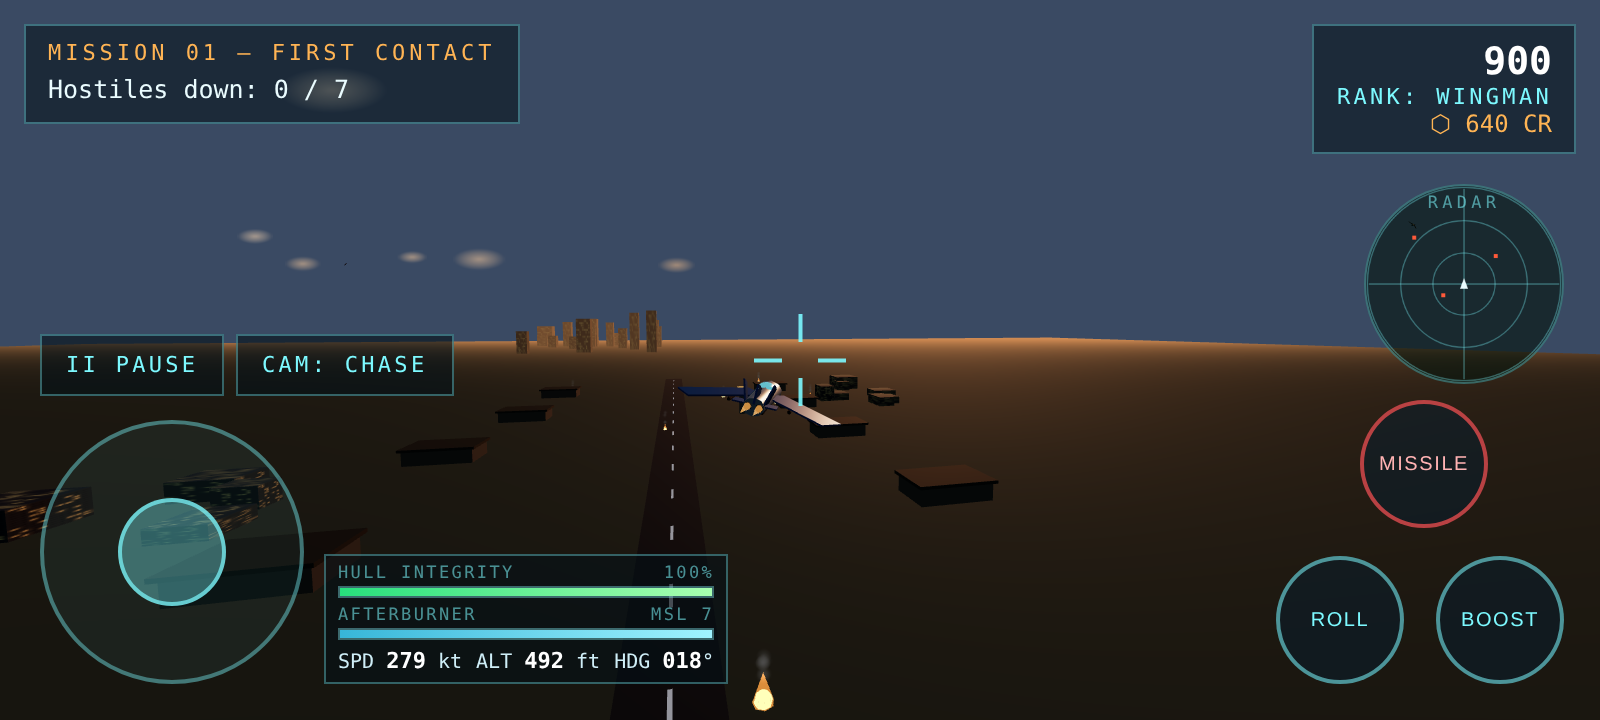
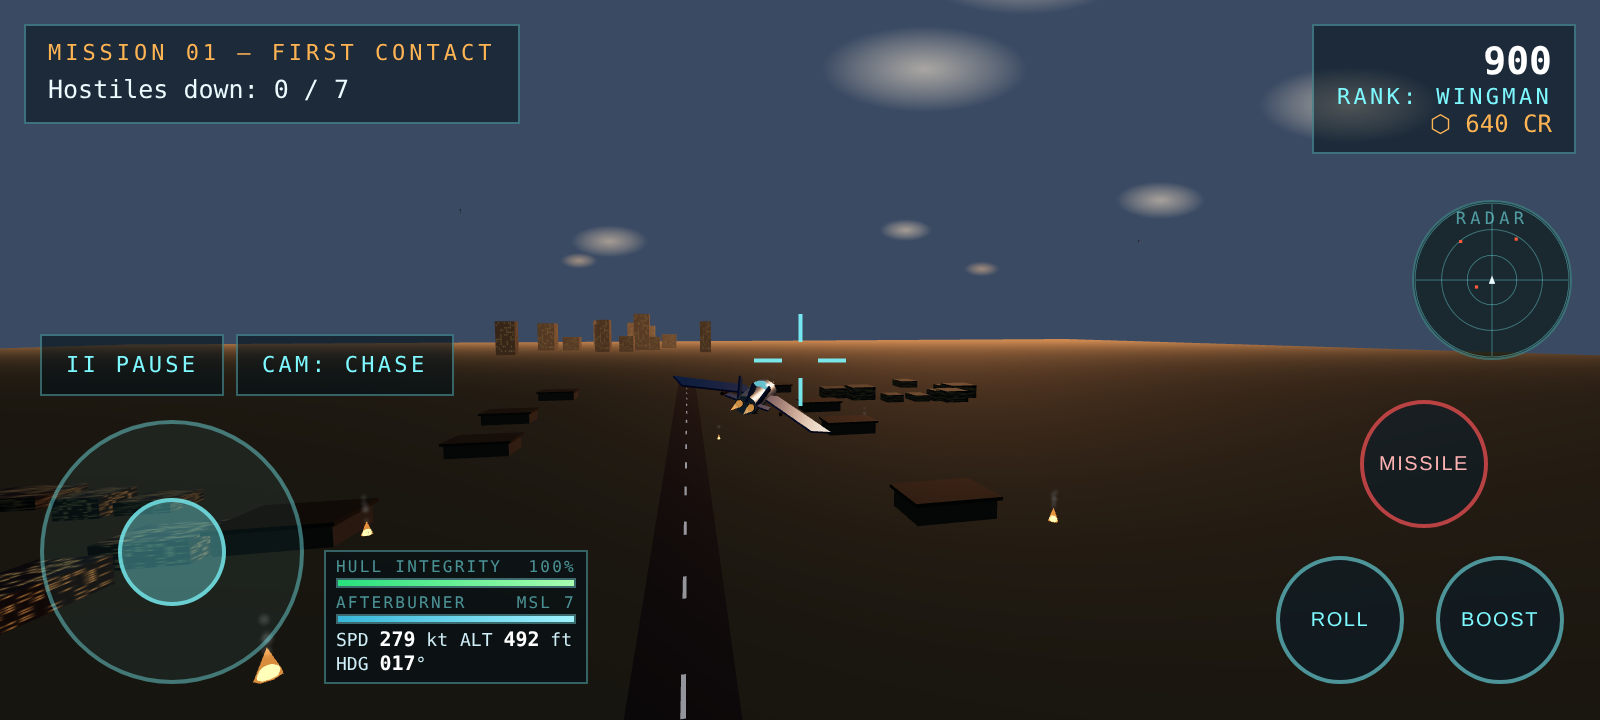
Armory and Service Record are now full screens with Back buttons (no overlay panel); tougher enemies (fighters 110 HP, aces 220, base 220, ship 480, boss 1400); touch radar anchored under the score box so it can never overlap; smaller touch gauge panel

diff --git a/index.html b/index.html
@@ -117,18 +117,10 @@
   .btn.engage{margin-top:10px;padding:12px 50px;font-size:clamp(15px,2.6vw,18px)}
   .mode-row{display:flex;gap:8px;justify-content:center;margin-top:10px;flex-wrap:wrap}
   .mode-row .mission-btn{width:auto;margin-top:0;padding:8px 14px;font-size:12px}
-  .hangar-drawer{position:fixed;top:76px;right:20px;width:min(430px,92vw);max-height:calc(100dvh - 200px);overflow-y:auto;z-index:60;text-align:left}
-  .hangar-drawer .panel{max-width:none;background:rgba(4,12,20,.97)}
-  .drawer-close{float:right;cursor:pointer;background:transparent;border:1px solid var(--line);color:var(--hud);width:28px;height:28px;font-size:14px;line-height:1}
-  .drawer-tabs{display:flex;gap:8px;margin-bottom:12px;padding-right:36px}
-  .drawer-tab{flex:1;cursor:pointer;padding:9px 6px;font-family:inherit;font-size:11.5px;letter-spacing:.12em;
-    text-transform:uppercase;color:var(--hud);background:rgba(6,18,28,.6);border:1px solid var(--line)}
-  .drawer-tab.sel{border-color:var(--amber);color:#fff;background:rgba(255,180,84,.13)}
   @media(max-width:820px){
     .hangar-mid{flex-direction:column;align-items:stretch;min-height:0}
     .hangar-left,.hangar-right{width:100%}
     .jet-circle{margin:0 auto}
-    .hangar-drawer{top:auto;bottom:12px;right:12px;left:12px;width:auto;max-height:62%}
   }
 
   /* ---------- HUD ---------- */
@@ -195,17 +187,22 @@
   #stick-base{touch-action:none}
   .tbtn{touch-action:none}
   body.touch #stick-base{left:20px;bottom:18px;width:132px;height:132px}
-  body.touch #hud-bottom-left{left:162px;bottom:18px;min-width:138px;padding:4px 6px}
-  body.touch #hud-bottom-left .bar{height:6px;margin:1px 0 4px}
-  body.touch #hud-bottom-left .barlabel{font-size:8.5px;letter-spacing:.14em}
-  body.touch #hud-gauges{gap:7px;font-size:10px;flex-wrap:wrap;row-gap:1px}
-  body.touch #hud-gauges b{font-size:11px}
+  body.touch #hud-bottom-left{left:162px;bottom:18px;min-width:118px;max-width:132px;padding:3px 5px}
+  body.touch #hud-bottom-left .bar{height:5px;margin:1px 0 3px}
+  body.touch #hud-bottom-left .barlabel{font-size:8px;letter-spacing:.14em}
+  body.touch #hud-gauges{gap:6px;font-size:9px;flex-wrap:wrap;row-gap:1px}
+  body.touch #hud-gauges b{font-size:10px}
   body.touch #btn-pause{top:auto;bottom:162px;left:20px}
   body.touch #btn-camera{top:auto;bottom:162px;left:118px;right:auto}
   body.touch #btn-end-sortie{position:absolute;top:auto !important;bottom:200px;left:20px}
-  body.touch #radar-wrap{bottom:168px;right:18px;width:100px;height:100px}
-  body.touch #radar{width:100px;height:100px}
+  body.touch #radar-wrap{top:104px;bottom:auto;right:14px;width:92px;height:92px}
+  body.touch #radar{width:92px;height:92px}
   body.touch #radar-label{top:5px;right:0;left:0;text-align:center;font-size:8.5px}
+  @media(max-height:420px){
+    body.touch #radar-wrap{top:100px;width:80px;height:80px}
+    body.touch #radar{width:80px;height:80px}
+    body.touch #btn-missile{bottom:84px}
+  }
   body.touch #btn-missile{right:56px;bottom:96px}
   body.touch #btn-roll{right:98px;bottom:18px}
   body.touch #btn-boost{right:18px;bottom:18px}
@@ -327,26 +324,6 @@
         <button class="mission-btn" id="btn-mode-endless"><span>ENDLESS<small>WAVE DEFENSE · BEST: <span id="lobby-best-endless">WAVE 0</span></small></span><b>▶</b></button>
       </div>
     </div>
-    <div class="hangar-drawer hidden" id="drawer-panel">
-      <div class="panel">
-        <button class="drawer-close" id="btn-drawer-close">✕</button>
-        <div class="drawer-tabs">
-          <button id="tab-armory" class="drawer-tab">⚙ Armory</button>
-          <button id="tab-record" class="drawer-tab">🎖 Records</button>
-        </div>
-        <div id="drawer-sec-armory">
-          <p class="obj" style="margin:8px 0 2px">Spend mission credits here. Upgrades apply to every mission you fly afterwards.</p>
-          <div class="upgrid" id="lobby-upgrades" style="grid-template-columns:1fr"></div>
-        </div>
-        <div id="drawer-sec-record" class="hidden">
-          <div class="kicker">Service Record</div>
-          <h2>MEDALS & STATISTICS</h2>
-          <div class="pilot-stats" id="lobby-stats" style="grid-template-columns:repeat(4,1fr);gap:10px 22px"></div>
-          <div class="kicker" style="margin-top:18px">Medals <span id="lobby-medal-count"></span></div>
-          <div id="lobby-medals"></div>
-        </div>
-      </div>
-    </div>
   </div>
 </div>
 
@@ -358,6 +335,33 @@
     <p class="obj" style="margin:8px 0 4px">Choose your sortie. Locked missions open as you clear the campaign.</p>
     <div id="lobby-missions"></div>
     <div class="center"><button class="btn ghost" id="btn-missions-back">← Back to Hangar</button></div>
+  </div>
+</div>
+
+<!-- ================= ARMORY ================= -->
+<div id="screen-armory" class="screen hidden">
+  <div class="panel">
+    <div class="kicker">Hangar — Upgrades</div>
+    <h2>ARMORY & WORKSHOP</h2>
+    <p class="obj" style="margin:8px 0 2px">Spend mission credits here. Upgrades apply to every mission you fly afterwards.</p>
+    <div class="pilot-stats" style="margin-top:12px">
+      <span>Credits</span><b id="armory-credits">0 CR</b>
+      <span>Aircraft</span><b id="armory-aircraft">—</b>
+    </div>
+    <div class="upgrid" id="lobby-upgrades"></div>
+    <div class="center"><button class="btn ghost" id="btn-armory-back">← Back to Hangar</button></div>
+  </div>
+</div>
+
+<!-- ================= SERVICE RECORD ================= -->
+<div id="screen-record" class="screen hidden">
+  <div class="panel">
+    <div class="kicker">Service Record</div>
+    <h2>MEDALS & STATISTICS</h2>
+    <div class="pilot-stats" id="lobby-stats" style="grid-template-columns:repeat(4,1fr);gap:10px 22px"></div>
+    <div class="kicker" style="margin-top:18px">Medals <span id="lobby-medal-count"></span></div>
+    <div id="lobby-medals"></div>
+    <div class="center"><button class="btn ghost" id="btn-record-back">← Back to Hangar</button></div>
   </div>
 </div>
 
@@ -1065,7 +1069,7 @@ function spawnEnemy(x, y, z, ace = false) {
   scene.add(group);
   const e = {
     group, ace, alive: true, radius: 10,
-    hp: ace ? 90 : 45, maxHp: ace ? 90 : 45,
+    hp: ace ? 220 : 110, maxHp: ace ? 220 : 110,
     speed: rand(118, 132) * (ace ? 1.14 : 1),
     fireCd: rand(0.8, 2.2), burst: 0, jinkT: 0, jink: new THREE.Vector3(),
     patrol: new THREE.Vector3(rand(-2400, 2400), rand(280, 520), rand(-2400, 2400)),
@@ -1170,7 +1174,7 @@ function buildRadarBase(x, z) {
   light.position.y = 27.5; g.add(light);
   g.position.set(x, 0, z);
   scene.add(g);
-  const t = { group: g, kind: 'base', hp: 130, maxHp: 130, radius: 30, alive: true, dish, scoreValue: 300, credits: 60 };
+  const t = { group: g, kind: 'base', hp: 220, maxHp: 220, radius: 30, alive: true, dish, scoreValue: 300, credits: 60 };
   targets.push(t);
   return t;
 }
@@ -1192,7 +1196,7 @@ function buildShip(x, z, ry, hostile) {
   }
   g.position.set(x, 0, z); g.rotation.y = ry;
   scene.add(g);
-  const t = { group: g, kind: 'ship', hp: 300, maxHp: 300, radius: 62, alive: true, hostile, turrets, fireCd: rand(1, 2), sinkT: 0, scoreValue: 500, credits: 120 };
+  const t = { group: g, kind: 'ship', hp: 480, maxHp: 480, radius: 62, alive: true, hostile, turrets, fireCd: rand(1, 2), sinkT: 0, scoreValue: 500, credits: 120 };
   targets.push(t);
   return t;
 }
@@ -1221,7 +1225,7 @@ function buildBoss() {
   }
   g.position.set(0, 430, -1500);
   scene.add(g);
-  const t = { group: g, kind: 'boss', hp: 850, maxHp: 850, radius: 105, alive: true, turrets, engines, fireCd: 1.5, angle: 0, scoreValue: 2000, credits: 400 };
+  const t = { group: g, kind: 'boss', hp: 1400, maxHp: 1400, radius: 105, alive: true, turrets, engines, fireCd: 1.5, angle: 0, scoreValue: 2000, credits: 400 };
   targets.push(t);
   return t;
 }
@@ -1824,24 +1828,26 @@ function startHangar() {
   };
   requestAnimationFrame(step);
 }
-function openDrawer(which) {
-  el('drawer-panel').classList.remove('hidden');
-  el('drawer-sec-armory').classList.toggle('hidden', which !== 'armory');
-  el('drawer-sec-record').classList.toggle('hidden', which !== 'record');
-  el('tab-armory').classList.toggle('sel', which === 'armory');
-  el('tab-record').classList.toggle('sel', which === 'record');
+function showArmory() {
+  el('armory-credits').textContent = SAVE.credits + ' CR';
+  el('armory-aircraft').textContent = JETS[SAVE.jet].name;
+  state = 'armory';
+  showScreen('screen-armory');
 }
-el('btn-drawer-armory').addEventListener('click', () => openDrawer('armory'));
-el('btn-drawer-record').addEventListener('click', () => openDrawer('record'));
-el('tab-armory').addEventListener('click', () => openDrawer('armory'));
-el('tab-record').addEventListener('click', () => openDrawer('record'));
-el('btn-drawer-close').addEventListener('click', () => el('drawer-panel').classList.add('hidden'));
+function showRecord() {
+  state = 'record';
+  showScreen('screen-record');
+}
+el('btn-drawer-armory').addEventListener('click', showArmory);
+el('btn-drawer-record').addEventListener('click', showRecord);
+el('btn-armory-back').addEventListener('click', () => showLobby());
+el('btn-record-back').addEventListener('click', () => showLobby());
 
 // ================================================================
 // 8. FLOW — screens, launch, debrief, upgrades
 // ================================================================
 function showScreen(id) {
-  for (const s of ['screen-start', 'screen-lobby', 'screen-missions', 'screen-brief', 'screen-debrief', 'screen-end']) el(s).classList.add('hidden');
+  for (const s of ['screen-start', 'screen-lobby', 'screen-missions', 'screen-armory', 'screen-record', 'screen-brief', 'screen-debrief', 'screen-end']) el(s).classList.add('hidden');
   if (id) el(id).classList.remove('hidden');
   el('hud').classList.toggle('hidden', id !== null);
   el('touch').classList.toggle('hidden', !(id === null && IS_TOUCH));
@@ -2059,6 +2065,7 @@ function renderUpgrades(grid, afterBuy) {
       renderUpgrades(grid, afterBuy); updateHudTop();
       if (afterBuy) afterBuy();
       if (state === 'lobby') showLobby(true);
+      if (state === 'armory') el('armory-credits').textContent = SAVE.credits + ' CR';
     });
     grid.appendChild(card);
   }
